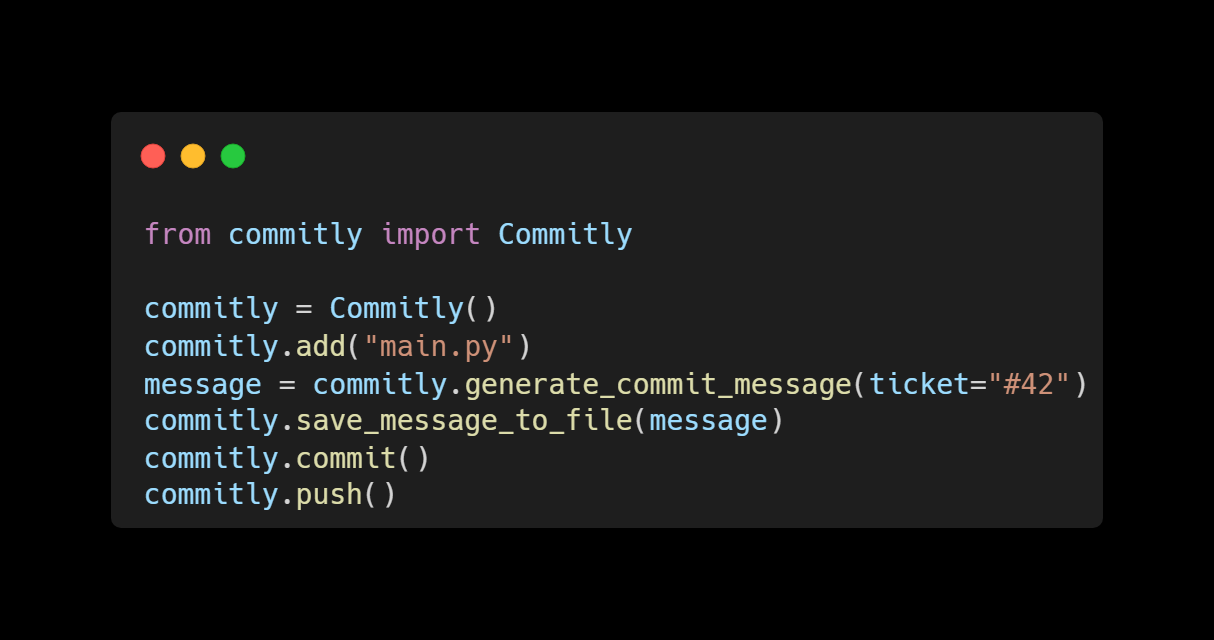
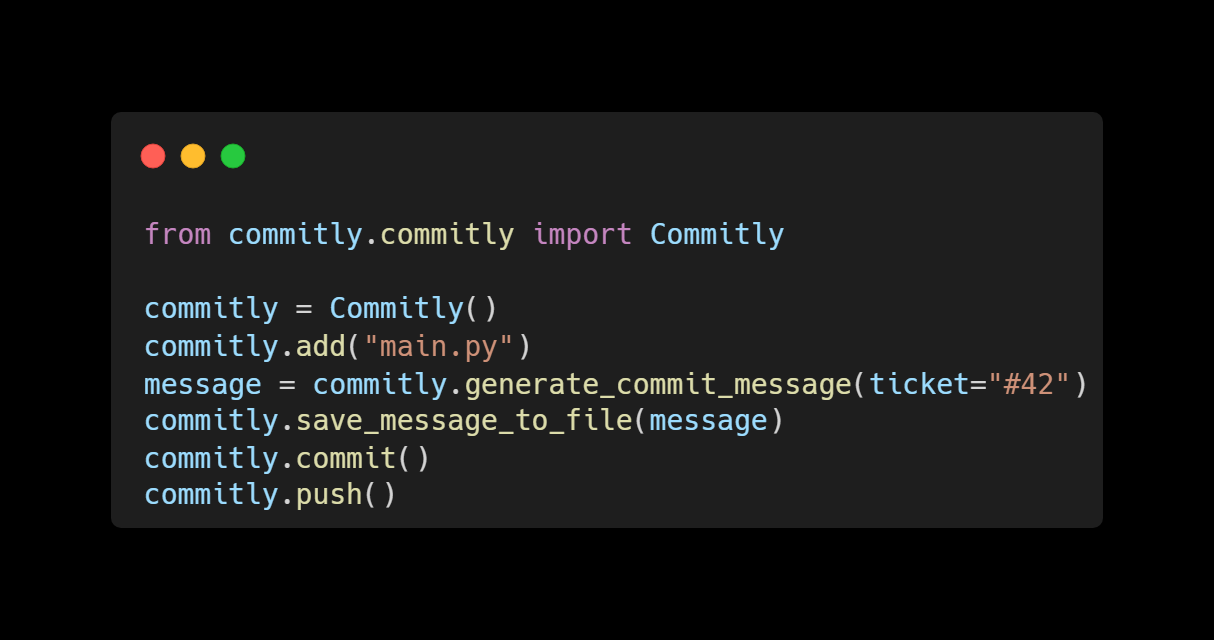
docs: Correction du chemin d'importation dans le README
- Mise à jour de l'importation de la classe Commitly pour refléter la nouvelle structure de dossier.
- Modification similaire effectuée dans la version anglaise du
README.

Changed region(s): [[0.3048, 0.3438, 0.64, 0.4062]]

diff --git a/docs/français/readme.md b/docs/français/readme.md
@@ -133,7 +133,7 @@ Méthode interne utilisée pour exécuter des commandes shell. Elle peut retourn
 ## 🧪 Exemple complet
 
 ```python
-from commitly import Commitly
+from commitly.commitly import Commitly
 
 commitly = Commitly()
 commitly.add("main.py")

diff --git a/readme.md b/readme.md
@@ -135,7 +135,7 @@ Internal method to run shell commands. Returns either:
 ## 🧪 Full Example
 
 ```python
-from commitly import Commitly
+from commitly.commitly import Commitly
 
 commitly = Commitly()
 commitly.add("main.py")
